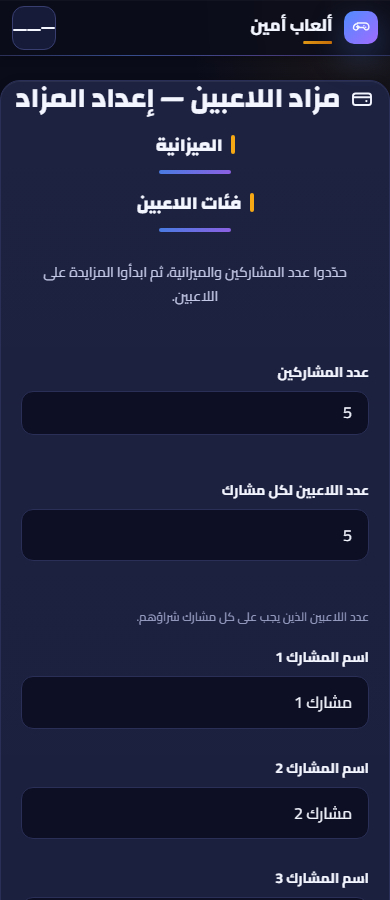
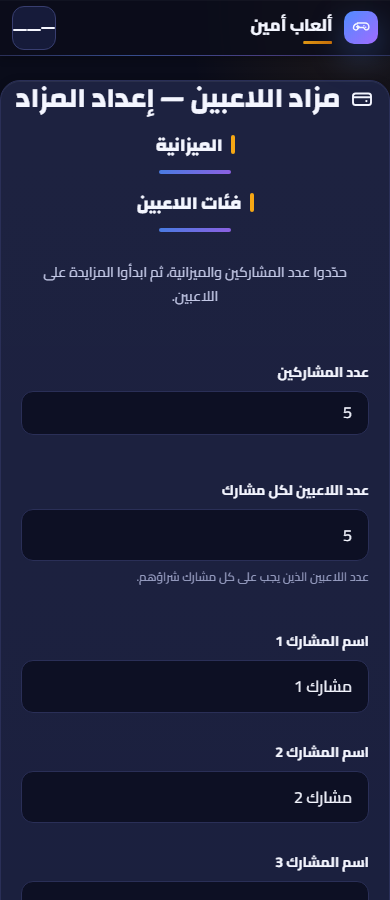
fix(a11y): keyboard focus on category cards, label/field association, even board columns
Second audit round, all findings verified by measurement before fixing:

- .cp-cat:focus-within paints a visible ring: the real checkbox owns the
  focus ring but is opacity:0, so Tab focus on category cards was invisible
  (WCAG 2.4.7). Also add .cp-cat to the shared :focus-visible list.
- associate every field label with its control (WCAG 1.3.1 / 4.1.2): 7 in
  quiz, 13 in auction (including the JS-generated participant names), 3 in
  million. The category-bar label described a section, not a field -> span.
- #adminPw had no label (placeholder is not a label) -> label + autocomplete
- .jboard repeat(6,1fr) let min-content widths win, so columns were uneven at
  390px (47-61px) -> repeat(6,minmax(0,1fr)) + ellipsis on .jhead children
- the auction .form-hint sat in its own grid row, detached from the field it
  explains -> moved inside its .form-group
- .skip-link was 19px tall (under the 24px WCAG 2.5.8 floor) -> 28px
- .setup-catbar .btn was 41px -> 44px, matching the app's touch-target target

Verified after the fix: 0 orphan labels, focus ring visible on the card, board
columns 52px x 6 at 390px, hint inside its field group, skip link 32x28.

Changed region(s): [[0.0308, 0.6844, 0.9538, 1.0], [0.3692, 0.6222, 0.6462, 0.6533], [0.6769, 0.6222, 0.8923, 0.6533]]

diff --git a/templates/game_quiz.html b/templates/game_quiz.html
@@ -6,7 +6,7 @@
    All colours/spacing come from the shared design system in style.css;
    no CSS variables are redefined here.
    ===================================================================== */
-.jboard{display:grid;grid-template-columns:repeat(6,1fr);gap:var(--space-2);background:var(--bg-card);
+.jboard{display:grid;grid-template-columns:repeat(6,minmax(0,1fr));gap:var(--space-2);background:var(--bg-card);
   padding:var(--space-3);border-radius:var(--radius-lg);border:1px solid var(--border-color);
   box-shadow:var(--shadow-sm),var(--shadow-inset)}
 .jcol{display:flex;flex-direction:column;gap:var(--space-2)}
@@ -14,6 +14,7 @@
   padding:var(--space-2);text-align:center;font-weight:800;font-size:var(--font-size-xs);
   color:var(--text-on-brand);min-height:66px;
   display:flex;flex-direction:column;align-items:center;justify-content:center;gap:var(--space-1);overflow:hidden}
+.jhead>*{max-width:100%;overflow:hidden;text-overflow:ellipsis;white-space:nowrap}
 .jhead img{width:100%;height:36px;object-fit:cover;border-radius:6px}
 .jhead .ico{font-size:1.15rem}
 .jcell{position:relative;background:var(--bg-secondary);border:1px solid var(--border-color);
@@ -37,6 +38,10 @@
   background:linear-gradient(180deg,rgba(255,255,255,.05),rgba(255,255,255,0)),var(--bg-card);
   border:1px solid var(--border-color);border-radius:var(--radius);transition:var(--transition-fast)}
 .cp-cat:hover{transform:translateY(-3px);border-color:var(--border-strong);background:var(--bg-card-hover)}
+/* Keyboard focus: the real checkbox is opacity:0 yet still owns the focus ring,
+   so :focus-within paints an equivalent visible ring on the card itself. */
+.cp-cat:focus-within{outline:2px solid var(--accent-blue);outline-offset:2px;
+  box-shadow:0 0 0 3px var(--accent-blue-tint)}
 .cp-cat.sel{outline:2px solid var(--accent-blue);border-color:var(--accent-blue);background:var(--accent-blue-tint)}
 .cp-cat.sel::after{content:'✓';position:absolute;top:.3rem;inset-inline-end:.3rem;width:1.1rem;height:1.1rem;
   border-radius:50%;background:var(--accent-blue);color:#fff;font-size:.65rem;font-weight:900;
@@ -172,17 +177,17 @@
     <p class="setup-lead">سمّوا الفريقين وحددوا الفئات ووقت السؤال — ويمكن للخصم سرقة السؤال.</p>
 
     <div class="setup-row">
-        <div class="form-group"><label>اسم الفريق الأول</label><input type="text" id="team1Name" value="الفريق الأول"></div>
-        <div class="form-group"><label>اسم الفريق الثاني</label><input type="text" id="team2Name" value="الفريق الثاني"></div>
+        <div class="form-group"><label for="team1Name">اسم الفريق الأول</label><input type="text" id="team1Name" value="الفريق الأول"></div>
+        <div class="form-group"><label for="team2Name">اسم الفريق الثاني</label><input type="text" id="team2Name" value="الفريق الثاني"></div>
     </div>
 
     <div class="setup-row">
-        <div class="form-group"><label>لون الفريق الأول</label><input type="color" id="team1Color" value="#2563eb" style="width:100%;height:42px"></div>
-        <div class="form-group"><label>لون الفريق الثاني</label><input type="color" id="team2Color" value="#16a34a" style="width:100%;height:42px"></div>
+        <div class="form-group"><label for="team1Color">لون الفريق الأول</label><input type="color" id="team1Color" value="#2563eb" style="width:100%;height:42px"></div>
+        <div class="form-group"><label for="team2Color">لون الفريق الثاني</label><input type="color" id="team2Color" value="#16a34a" style="width:100%;height:42px"></div>
     </div>
 
     <div class="setup-catbar">
-        <label style="font-weight:700;">اختر 6 فئات <span id="catCount" style="color:var(--accent-gold)">(0/6)</span></label>
+        <span style="font-weight:700;">اختر 6 فئات <span id="catCount" style="color:var(--accent-gold)">(0/6)</span>
         <div class="catbar-actions">
             <button class="btn btn-secondary btn-sm" onclick="randomCategories()"><svg class="ico" aria-hidden="true"><use href="#i-dice"></use></svg> فئات عشوائية</button>
             <button class="btn btn-secondary btn-sm" onclick="clearCategories()">مسح</button>
@@ -194,13 +199,13 @@
            style="width:100%;padding:.65rem .9rem;border-radius:var(--radius);border:1px solid var(--border-color);background:var(--bg-inset);color:var(--text-primary);font-family:inherit;margin-bottom:.8rem">
     <div id="categorySelection" class="cat-pick"></div>
     <div class="setup-row">
-        <div class="form-group"><label>مدة الإجابة</label>
+        <div class="form-group"><label for="timerDuration">مدة الإجابة</label>
             <select id="timerDuration">
                 <option value="0">بدون مؤقت</option><option value="15">15 ثانية</option>
                 <option value="30" selected>30 ثانية</option><option value="45">45 ثانية</option>
                 <option value="60">60 ثانية</option>
             </select></div>
-        <div class="form-group"><label>نقاط السؤال</label>
+        <div class="form-group"><label for="pointsMode">نقاط السؤال</label>
             <select id="pointsMode">
                 <option value="200,400,600" selected>200 / 400 / 600 (الكل)</option>
                 <option value="200">200 فقط (سهل)</option>

diff --git a/templates/game_auction.html b/templates/game_auction.html
@@ -203,28 +203,28 @@
     <p class="setup-lead">حدّدوا عدد المشاركين والميزانية، ثم ابدأوا المزايدة على اللاعبين.</p>
 
     <div class="setup-grid">
-        <div class="form-group"><label>عدد المشاركين</label>
+        <div class="form-group"><label for="participantCount">عدد المشاركين</label>
             <select id="participantCount" onchange="renderParticipantInputs()">
                 <option>2</option><option>3</option><option>4</option><option selected>5</option><option>6</option>
             </select></div>
-        <div class="form-group"><label>عدد اللاعبين لكل مشارك</label>
-            <input type="number" id="playersNeeded" value="5" min="1" max="15"></div>
-        <p class="form-hint">عدد اللاعبين الذين يجب على كل مشارك شراؤهم.</p>
+        <div class="form-group"><label for="playersNeeded">عدد اللاعبين لكل مشارك</label>
+            <input type="number" id="playersNeeded" value="5" min="1" max="15">
+            <p class="form-hint">عدد اللاعبين الذين يجب على كل مشارك شراؤهم.</p></div>
     </div>
 
     <div id="participantInputs"></div>
 
     <h3 class="section-title">الميزانية</h3>
     <div class="setup-grid cols-231">
-        <div class="form-group"><label>المبلغ الكلي لكل مشارك</label><input type="number" id="budget" value="100" min="1"></div>
-        <div class="form-group"><label>الوحدة</label>
+        <div class="form-group"><label for="budget">المبلغ الكلي لكل مشارك</label><input type="number" id="budget" value="100" min="1"></div>
+        <div class="form-group"><label for="budgetUnit">الوحدة</label>
             <select id="budgetUnit"><option value="مليون">مليون</option><option value="مليار">مليار</option><option value="كوينز">كوينز</option></select></div>
     </div>
 
     <div class="setup-grid cols-3">
-        <div class="form-group"><label>السعر الافتتاحي</label><input type="number" id="initialPrice" value="5" min="1"></div>
-        <div class="form-group"><label>أدنى زيادة</label><input type="number" id="minBid" value="5" min="1"></div>
-        <div class="form-group"><label>مدة الدور</label>
+        <div class="form-group"><label for="initialPrice">السعر الافتتاحي</label><input type="number" id="initialPrice" value="5" min="1"></div>
+        <div class="form-group"><label for="minBid">أدنى زيادة</label><input type="number" id="minBid" value="5" min="1"></div>
+        <div class="form-group"><label for="bidDuration">مدة الدور</label>
             <select id="bidDuration">
                 <option value="0">بدون مؤقت</option><option value="15">15 ثانية</option>
                 <option value="30" selected>30 ثانية</option><option value="60">60 ثانية</option>
@@ -232,7 +232,7 @@
     </div>
 
     <h3 class="section-title">فئات اللاعبين</h3>
-    <div class="form-group"><label>الحقبة</label>
+    <div class="form-group"><label for="eraFilter">الحقبة</label>
         <select id="eraFilter" onchange="updatePoolSummary()">
             <option value="both">حاضرون ومعتزلون</option><option value="current">حاضرون فقط</option><option value="retired">معتزلون فقط</option>
         </select></div>
@@ -403,7 +403,7 @@ function renderParticipantInputs() {
     var n = parseInt(document.getElementById('participantCount').value);
     var html = '';
     for (var i = 0; i < n; i++) {
-        html += '<div class="form-group"><label>اسم المشارك ' + (i + 1) + '</label>' +
+        html += '<div class="form-group"><label for="pname' + i + '">اسم المشارك ' + (i + 1) + '</label>' +
                 '<input type="text" id="pname' + i + '" value="مشارك ' + (i + 1) + '"></div>';
     }
     document.getElementById('participantInputs').innerHTML = html;

diff --git a/templates/game_million.html b/templates/game_million.html
@@ -138,16 +138,16 @@
     <p class="setup-lead">
         15 سؤالاً بمبالغ تصاعدية · 3 وسائل مساعدة · بنك أسئلة مخصص بخياراته
     </p>
-    <div class="form-group"><label>اسم المتسابق</label><input type="text" id="playerName" value="المتسابق"></div>
+    <div class="form-group"><label for="playerName">اسم المتسابق</label><input type="text" id="playerName" value="المتسابق"></div>
     <div class="setup-row">
-        <div class="form-group"><label>الصعوبة</label>
+        <div class="form-group"><label for="milDiff">الصعوبة</label>
             <select id="milDiff">
                 <option value="mixed" selected>متنوعة (تصاعدية)</option>
                 <option value="easy">سهل فقط</option>
                 <option value="medium">متوسط فقط</option>
                 <option value="hard">صعب فقط</option>
             </select></div>
-        <div class="form-group"><label>مدة السؤال</label>
+        <div class="form-group"><label for="milTimer">مدة السؤال</label>
             <select id="milTimer">
                 <option value="0">بدون مؤقت</option>
                 <option value="30">30 ثانية</option>

diff --git a/static/css/style.css b/static/css/style.css
@@ -2480,7 +2480,7 @@ html.js .reveal-stagger.in > *:nth-child(n+11) { transition-delay: 600ms; }
 .mobile-menu-btn:focus-visible, .to-top:focus-visible, .check-field:focus-within,
 .nav-link:focus-visible, .nav-actions .nav-link:focus-visible, .footer-links a:focus-visible,
 .tab:focus-visible, .cat-chip:focus-visible, .filters button:focus-visible, .pager button:focus-visible,
-.cp-card:focus-visible, .icon-picker button:focus-visible {
+.cp-card:focus-visible, .cp-cat:focus-visible, .icon-picker button:focus-visible {
     box-shadow: 0 0 0 3px var(--bg-primary), 0 0 0 6px var(--accent-blue);
     border-radius: var(--radius);
 }
@@ -2498,6 +2498,8 @@ html.js .reveal-stagger.in > *:nth-child(n+11) { transition-delay: 600ms; }
     font-weight: 800;
     transition: top var(--transition-fast);
 }
+/* 24px is the WCAG 2.5.8 minimum target; the old padding left it at 19px. */
+.skip-link { min-height: 1.75rem; display: inline-flex; align-items: center; }
 .skip-link:focus-visible { top: var(--space-3); }
 
 /* ==========================================================================

diff --git a/templates/admin.html b/templates/admin.html
@@ -47,7 +47,11 @@
     <h2 style="margin:.5rem 0 1rem;">لوحة الإدارة</h2>
     <p style="color:var(--text-secondary);font-size:.9rem;margin-bottom:1rem;">هذا القسم للمشرف فقط — إدارة الأسئلة والفئات واللاعبين وإعدادات الذكاء الاصطناعي.</p>
     <div class="form-group">
-        <input type="password" id="adminPw" placeholder="كلمة المرور" onkeydown="if(event.key==='Enter')doLogin()">
+        <!-- A placeholder is not a label: it vanishes once the field has content,
+             so the field needs a real label for screen readers and click-to-focus. -->
+        <label for="adminPw">كلمة المرور</label>
+        <input type="password" id="adminPw" placeholder="كلمة المرور" autocomplete="current-password"
+               onkeydown="if(event.key==='Enter')doLogin()">
     </div>
     <button class="btn btn-primary btn-lg" style="width:100%" onclick="doLogin()">دخول</button>
     <div id="loginMsg" style="margin-top:.75rem;color:var(--accent-red);font-size:.85rem"></div>

diff --git a/static/css/ui-kit.css b/static/css/ui-kit.css
@@ -75,6 +75,8 @@
     align-items: center;
     gap: var(--space-2);
 }
+/* 44px, matching the app's touch-target target (.btn-sm alone lands at 41px) */
+.setup-catbar .catbar-actions .btn { min-height: 2.75rem; }
 .gsp-field { display: grid; gap: 0.35rem; align-content: start; }
 .gsp-field > label,
 .gsp-grid > label {

diff --git a/UI_AUDIT.md b/UI_AUDIT.md
@@ -45,6 +45,15 @@
 | **UI-17** | `/game/quiz` — شارة الدور | `templates/game_quiz.html` — `.turn-badge` + `ind.style.color = '#fff'` (السطر 848) | خلفية الشارة = لون الفريق الذي يختاره المضيف، والنص أبيض ثابت؛ اللون الافتراضي يعطي 3.98:1 | لون مستخدم + نص مثبّت | مؤكد (مقاس) | **P2** | `inkFor()` (السطر 567) تختار الحبر من لمعان اللون | 4.5:1+ |
 | **UI-18** | `/game/quiz` — شريط السؤال | `templates/game_quiz.html` — `applyBanner()` و`turnColor()` (588) | لون الفريق يُستخدم كنص على الشريط الداكن؛ `#2563eb` يعطي 3.64:1 | نفس الجذر | مؤكد (مقاس) | **P2** | `bannerInk()` (السطر 575) تفتح اللون تدريجيًا حتى يتجاوز 4.5:1، مع إبقاء `turnColor()` للون الخام المستخدم كخلفية | 4.5:1+ |
 
+| **UI-19** | `/game/quiz`, `/game/lastone`, `/game/minebali` | `templates/game_quiz.html` — `.cp-cat` (السطر 35–41) و`static/css/style.css` — قائمة التركيز (2483) | **التركيز بلوحة المفاتيح غير مرئي إطلاقًا** على بطاقات الفئات (WCAG 2.4.7) | الحلقة تُرسم على الـ checkbox الذي `opacity:0`، والبطاقة نفسها `outline:none` وبلا `box-shadow`؛ قائمة `:focus-visible` المشتركة تشمل `.cp-card` ولا تشمل `.cp-cat` | مؤكد (مقاس: `inputOpacity:0` مع حلقة `3px+6px`، والبطاقة `outline:none` و`box-shadow:none`) | **P1** | `.cp-cat:focus-within{outline:2px solid var(--accent-blue);outline-offset:2px;box-shadow:0 0 0 3px var(--accent-blue-tint)}` + إضافة `.cp-cat` لقائمة التركيز | `cardOutline: "rgb(244,246,255) solid 3px"` عند التركيز |
+| **UI-20** | `/game/quiz`, `/game/auction`, `/game/million` | `templates/game_quiz.html` (175/176/179/180/196/199 + شريط الفئات)، `game_auction.html` (205–253 ومولّد أسماء المشاركين)، `game_million.html` (141/143/149) | **تسميات حقول غير مرتبطة بعناصرها** — `label` بدون `for` ولا يحيط بالعنصر. قِس: 7 في س.ج، 13 في المزاد، 3 في من سيربح المليون | الضغط على نص التسمية لا ينقل التركيز، وقارئ الشاشة لا يحصل على اسم للحقل (WCAG 1.3.1 / 4.1.2) | مؤكد (عدّ آلي + قياس) | **P1** | إضافة `for="<id>"` لكل تسمية، وتحويل تسمية شريط الفئات (التي تصف قسمًا لا حقلًا) إلى `<span>` | `orphan_labels = {}` على كل الصفحات |
+| **UI-21** | `/game/quiz` (لوحة اللعب) | `templates/game_quiz.html` — `.jboard` (السطر 9) | **أعمدة اللوحة غير متساوية على الجوال**: عند 390px كانت 55/61/47/54/59/55px | `repeat(6,1fr)` = `minmax(auto,1fr)`، فعرض `min-content` لأسماء الفئات يتغلّب | مؤكد (مقاس) | **P2** | `repeat(6,minmax(0,1fr))` + `.jhead>*{overflow:hidden;text-overflow:ellipsis;white-space:nowrap}` | 52/52/52/52/52/52px |
+| **UI-22** | `/game/auction` | `templates/game_auction.html` — `.form-hint` (السطر 210) | التلميح أسفل الحقل يقع كعنصر شبكة **منفصل** عن الحقل الذي يشرحه | كان الابن الثالث في شبكة بعمودين، فينزل إلى صف جديد | مؤكد (مقاس: التلميح top=493 والحقل top=360) | **P3** | نقل التلميح داخل `.form-group` الخاصة بالحقل | مجموعة الحقل أصبح ارتفاعها 111px تشمل التلميح |
+| **UI-23** | `/admin` (شاشة الدخول) | `templates/admin.html` — `#adminPw` (السطر 50) | حقل كلمة المرور بلا `label` ولا `aria-label` — الـ placeholder يختفي عند الكتابة | سهو | مؤكد (مقاس: `hasLabel:false`, `hasAria:false`) | **P2** | إضافة `<label for="adminPw">` و`autocomplete="current-password"` | مرتبط |
+| **UI-24** | كل الصفحات | `static/css/style.css` — `.skip-link` (2501) | رابط التخطي **19px** ارتفاعًا — دون حد WCAG 2.5.8 (24px) | `padding: 0.6rem 1rem` مع سطر واحد | مؤكد (مقاس 32×19) | **P3** | `min-height:1.75rem; display:inline-flex; align-items:center` | 32×28 وظهور الحلقة عند التركيز |
+| **UI-25** | `/game/quiz` (شريط الفئات) | `static/css/ui-kit.css` — `.setup-catbar .catbar-actions .btn` (79) | أزرار الشريط **41px** — تجتاز 2.5.8 لكنها دون هدف 44px المعتمد في بقية التطبيق | `.btn-sm` يقلّص الحشوة | مؤكد (مقاس) | **P3** | `min-height: 2.75rem` | 44px |
+
+
 ---
 
 ## 3. الأخطاء المشابهة المتوقّعة (تمييز بين المؤكد والمحتمل)
